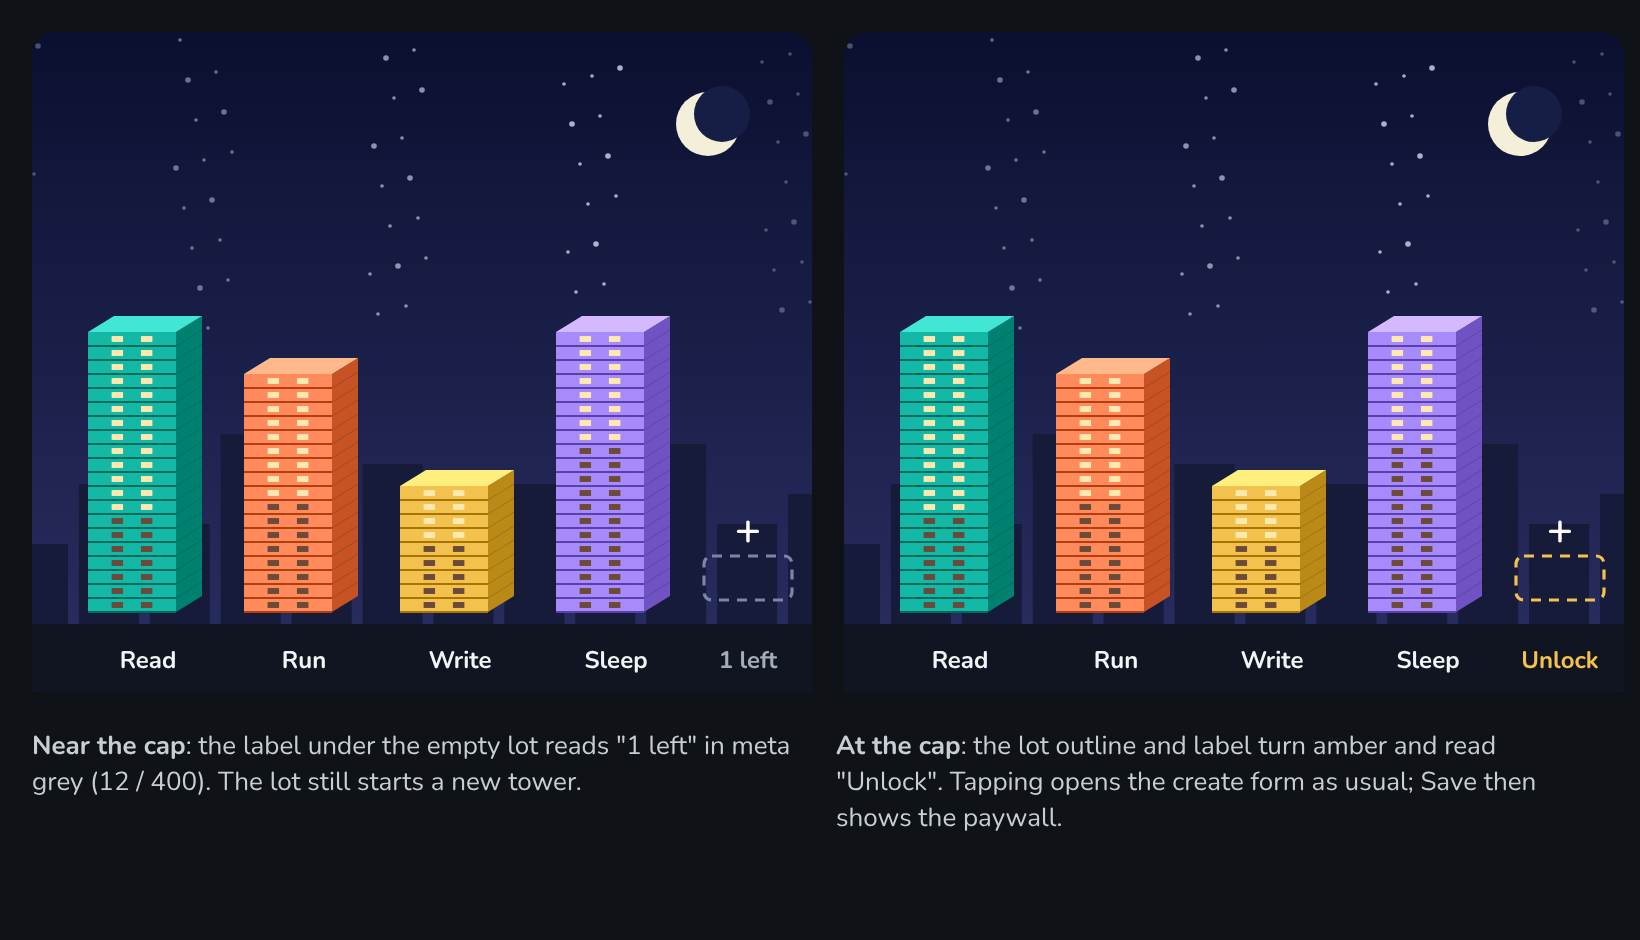
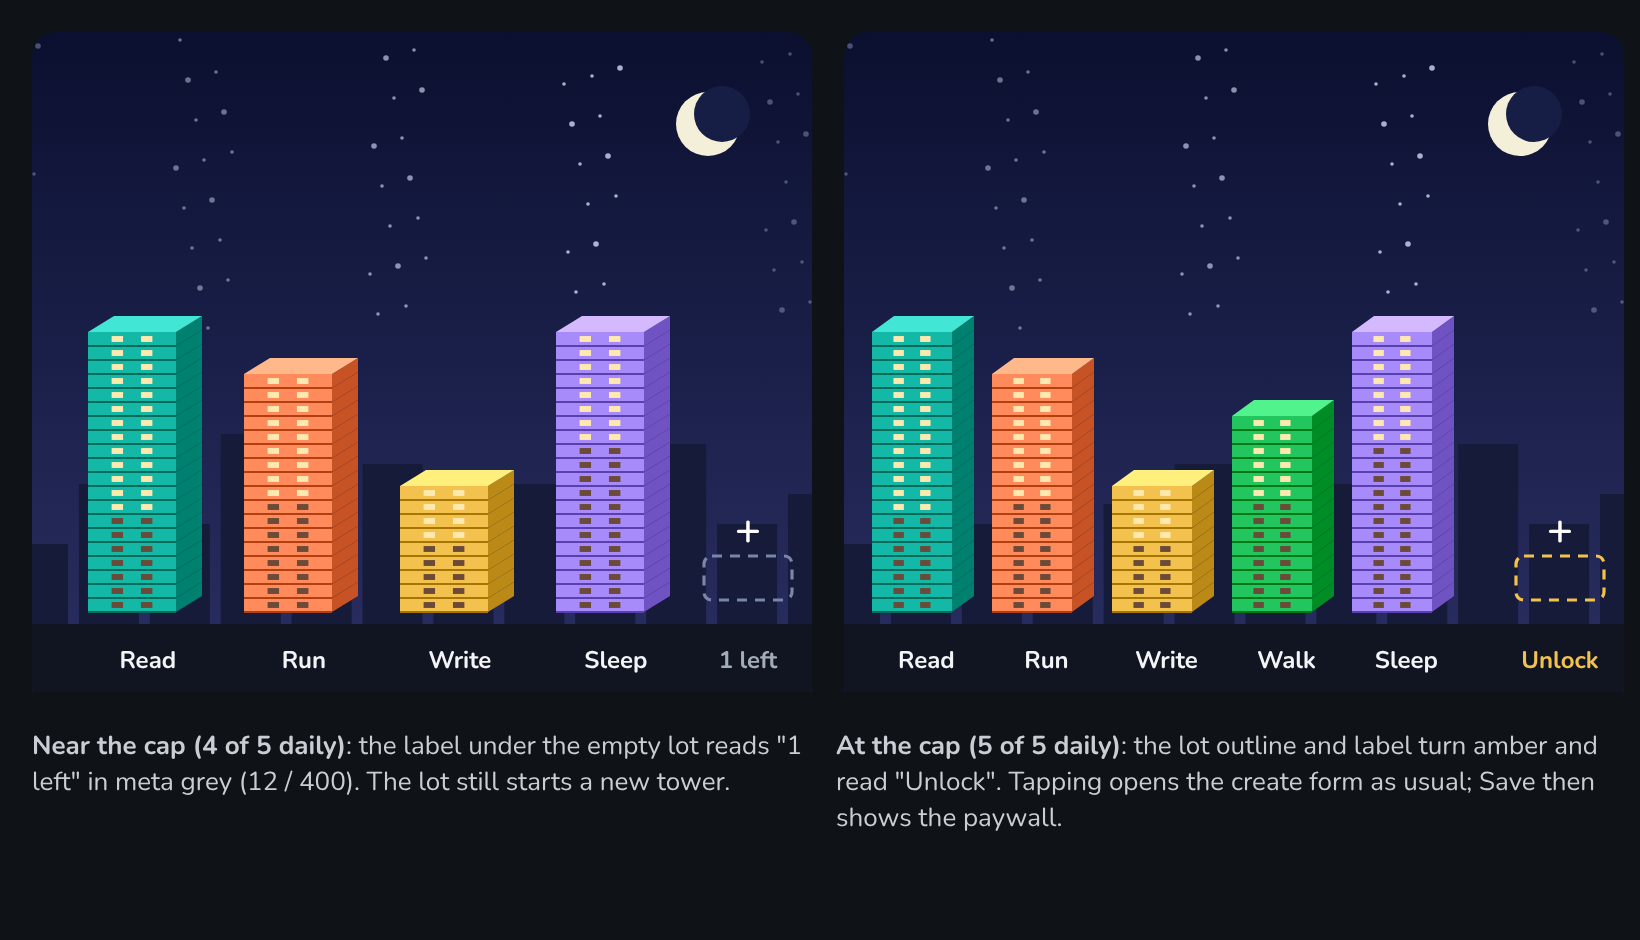
Board 90: 4 towers near the cap, 5 at the cap
Claude-Session: https://claude.ai/code/session_01UvWD32uMFJU1E2B9jDYiLg

diff --git a/design/skyline/source/rd.js b/design/skyline/source/rd.js
@@ -123,8 +123,8 @@ if(S==='rd-cp'){const rows=[['daily','Daily habit','5 of 5 daily habits','You ha
  <div style="margin-top:12px;font-size:13px;color:#A3ADB8;line-height:1.4">Never names or hints at Ask Habituate. Never says "can't", "limit reached" or "locked out".</div></div>`;}
 if(S==='rd-sn'){document.body.style.width="820px";document.body.style.height="470px";
  const crop=(lab,sub)=>`<div style="width:390px"><div style="width:390px;height:340px;overflow:hidden;position:relative;border-radius:12px"><div style="position:absolute;left:0;top:-172px">${scene(lab,sub)}</div></div></div>`;
- const scene=(lab,at)=>{const T=[['Read',28,'#14B8A6',20,13],['Run',106,'#FF8A5C',17,9],['Write',184,'#F2C14E',9,4],['Sleep',262,'#A78BFA',20,8]];
-  return `<div style="position:relative;width:390px;height:480px;background:#0F1216"><svg width="390" height="330" style="position:absolute;top:172px;left:0">${skyArt('night',390,330,296).replace(/<rect y="296"[^>]*>/,'<rect y="296" width="390" height="34" fill="#111522"/>')}${T.map(([n,x,c,f,l])=>tw(c,{x,base:290,w:44,fh:7,dx:13,dy:8,floors:fl(f,l),windows:2,today:false})+`<text x="${x+30}" y="318" text-anchor="middle" font-size="12" font-weight="700" fill="#F2F4F6" font-family="Nunito">${n}</text>`).join('')}
+ const scene=(lab,at)=>{const T=at?[['Read',14,'#14B8A6',20,13],['Run',74,'#FF8A5C',17,9],['Write',134,'#F2C14E',9,4],['Walk',194,'#22C55E',14,6],['Sleep',254,'#A78BFA',20,8]]:[['Read',28,'#14B8A6',20,13],['Run',106,'#FF8A5C',17,9],['Write',184,'#F2C14E',9,4],['Sleep',262,'#A78BFA',20,8]];const tww=at?40:44;
+  return `<div style="position:relative;width:390px;height:480px;background:#0F1216"><svg width="390" height="330" style="position:absolute;top:172px;left:0">${skyArt('night',390,330,296).replace(/<rect y="296"[^>]*>/,'<rect y="296" width="390" height="34" fill="#111522"/>')}${T.map(([n,x,c,f,l])=>tw(c,{x,base:290,w:tww,fh:7,dx:at?11:13,dy:8,floors:fl(f,l),windows:2,today:false})+`<text x="${x+tww*0.68}" y="318" text-anchor="middle" font-size="12" font-weight="700" fill="#F2F4F6" font-family="Nunito">${n}</text>`).join('')}
   <rect x="336" y="262" width="44" height="22" rx="4" fill="none" stroke="${at?'#F2C14E':'#7A86A8'}" stroke-width="1.6" stroke-dasharray="5 4"/><text x="358" y="256" text-anchor="middle" font-size="22" font-weight="600" fill="#fff" font-family="Nunito">+</text><text x="358" y="318" text-anchor="middle" font-size="12" font-weight="700" fill="${at?'#F2C14E':'#A3ADB8'}" font-family="Nunito">${lab}</text></svg></div>`};
- R.innerHTML=`<div style="position:absolute;inset:0;background:#0F1216;padding:16px 16px 0"><div style="display:flex;gap:16px">${crop('1 left',0)}${crop('Unlock',1)}</div><div style="display:flex;gap:16px;margin-top:8px"><div style="width:390px;font-size:13px;color:#C9CED4;line-height:1.4"><b>Near the cap</b>: the label under the empty lot reads "1 left" in meta grey (12 / 400). The lot still starts a new tower.</div><div style="width:390px;font-size:13px;color:#C9CED4;line-height:1.4"><b>At the cap</b>: the lot outline and label turn amber and read "Unlock". Tapping opens the create form as usual; Save then shows the paywall.</div></div></div>`;}
+ R.innerHTML=`<div style="position:absolute;inset:0;background:#0F1216;padding:16px 16px 0"><div style="display:flex;gap:16px">${crop('1 left',0)}${crop('Unlock',1)}</div><div style="display:flex;gap:16px;margin-top:8px"><div style="width:390px;font-size:13px;color:#C9CED4;line-height:1.4"><b>Near the cap (4 of 5 daily)</b>: the label under the empty lot reads "1 left" in meta grey (12 / 400). The lot still starts a new tower.</div><div style="width:390px;font-size:13px;color:#C9CED4;line-height:1.4"><b>At the cap (5 of 5 daily)</b>: the lot outline and label turn amber and read "Unlock". Tapping opens the create form as usual; Save then shows the paywall.</div></div></div>`;}
 })();
